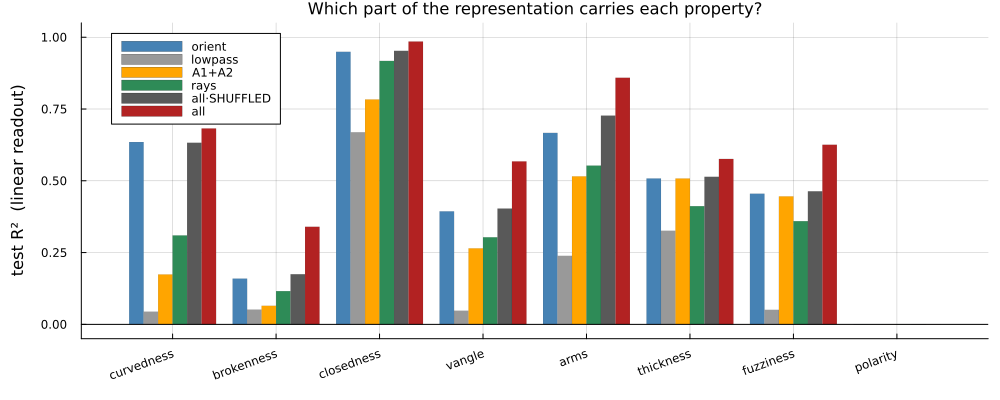
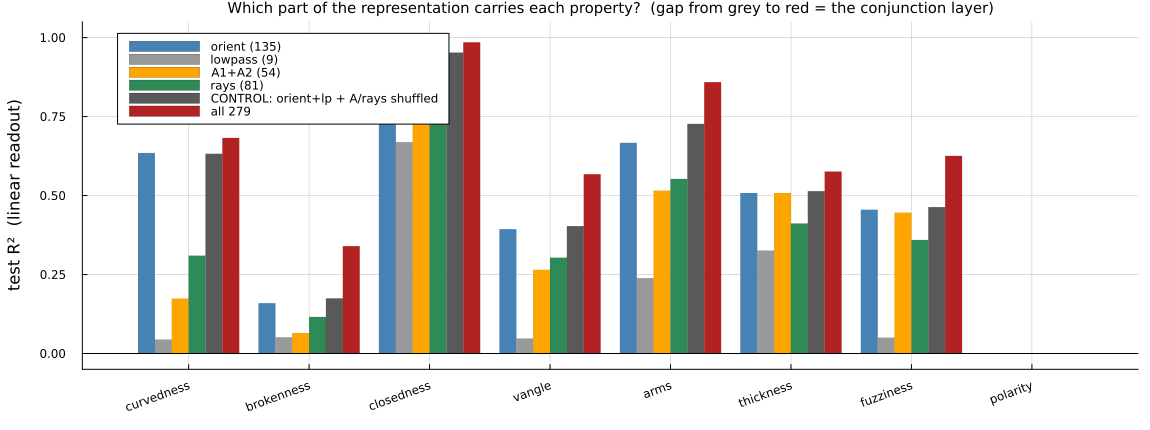
Relabel the shuffle control -- "all-SHUFFLED" read as if everything was shuffled
Only A1/A2/rays are permuted; orient and lowpass stay intact, so the bar is the
conventional statistics plus 135 columns of noise and is *supposed* to land on
orient. A control that collapsed to zero would be testing nothing. The figure
and table now say so, and the figure title points at the gap that matters.

diff --git a/SimpleStrokeTests/RESULTS.md b/SimpleStrokeTests/RESULTS.md
@@ -213,14 +213,17 @@ short and anisotropic", not as closure detection.**
 | `lowpass` (9) | 0.044 | 0.051 | 0.669 | 0.047 | 0.238 | 0.326 | 0.050 |
 | `A1+A2` (54) | 0.174 | 0.065 | 0.783 | 0.265 | 0.515 | 0.508 | 0.446 |
 | `rays` (81) | 0.310 | 0.116 | 0.917 | 0.303 | 0.553 | 0.412 | 0.359 |
-| **`all·SHUFFLED`** (279) | 0.632 | 0.174 | 0.953 | 0.403 | 0.727 | 0.514 | 0.463 |
+| **control: `orient`+`lowpass` intact, `A`/`rays` shuffled** (279) | 0.632 | 0.174 | 0.953 | 0.403 | 0.727 | 0.514 | 0.463 |
 | **`all`** (279) | **0.682** | **0.340** | **0.985** | **0.567** | **0.859** | **0.576** | **0.625** |
 | **real gain** | +0.050 | **+0.166** | +0.032 | **+0.164** | **+0.132** | +0.062 | **+0.162** |
 
 **`all` has 279 columns against `orient`'s 135, so `all` − `orient` is not the claim.** The
-shuffle control permutes the `A1`/`A2`/ray columns *across samples*: identical column count,
-identical marginals, correspondence with the image destroyed. Whatever it scores above
-`orient` is what capacity alone buys.
+control permutes the `A1`/`A2`/ray columns *across samples* — identical column count,
+identical marginals, correspondence with the image destroyed — while **leaving `orient` and
+`lowpass` untouched**. It is therefore "the conventional statistics plus 135 columns of
+noise", and it *should* score close to `orient`: a control that collapsed to zero would be
+testing nothing. Whatever it scores **above** `orient` is what capacity alone buys, and the
+gap from it **up to** `all` is the conjunction layer's real contribution.
 
 **It buys between 0.003 and 0.06.** The shuffled row sits on top of `orient` — so the gain
 from the conjunction and ray blocks is information, not parameters, and the honest number is
